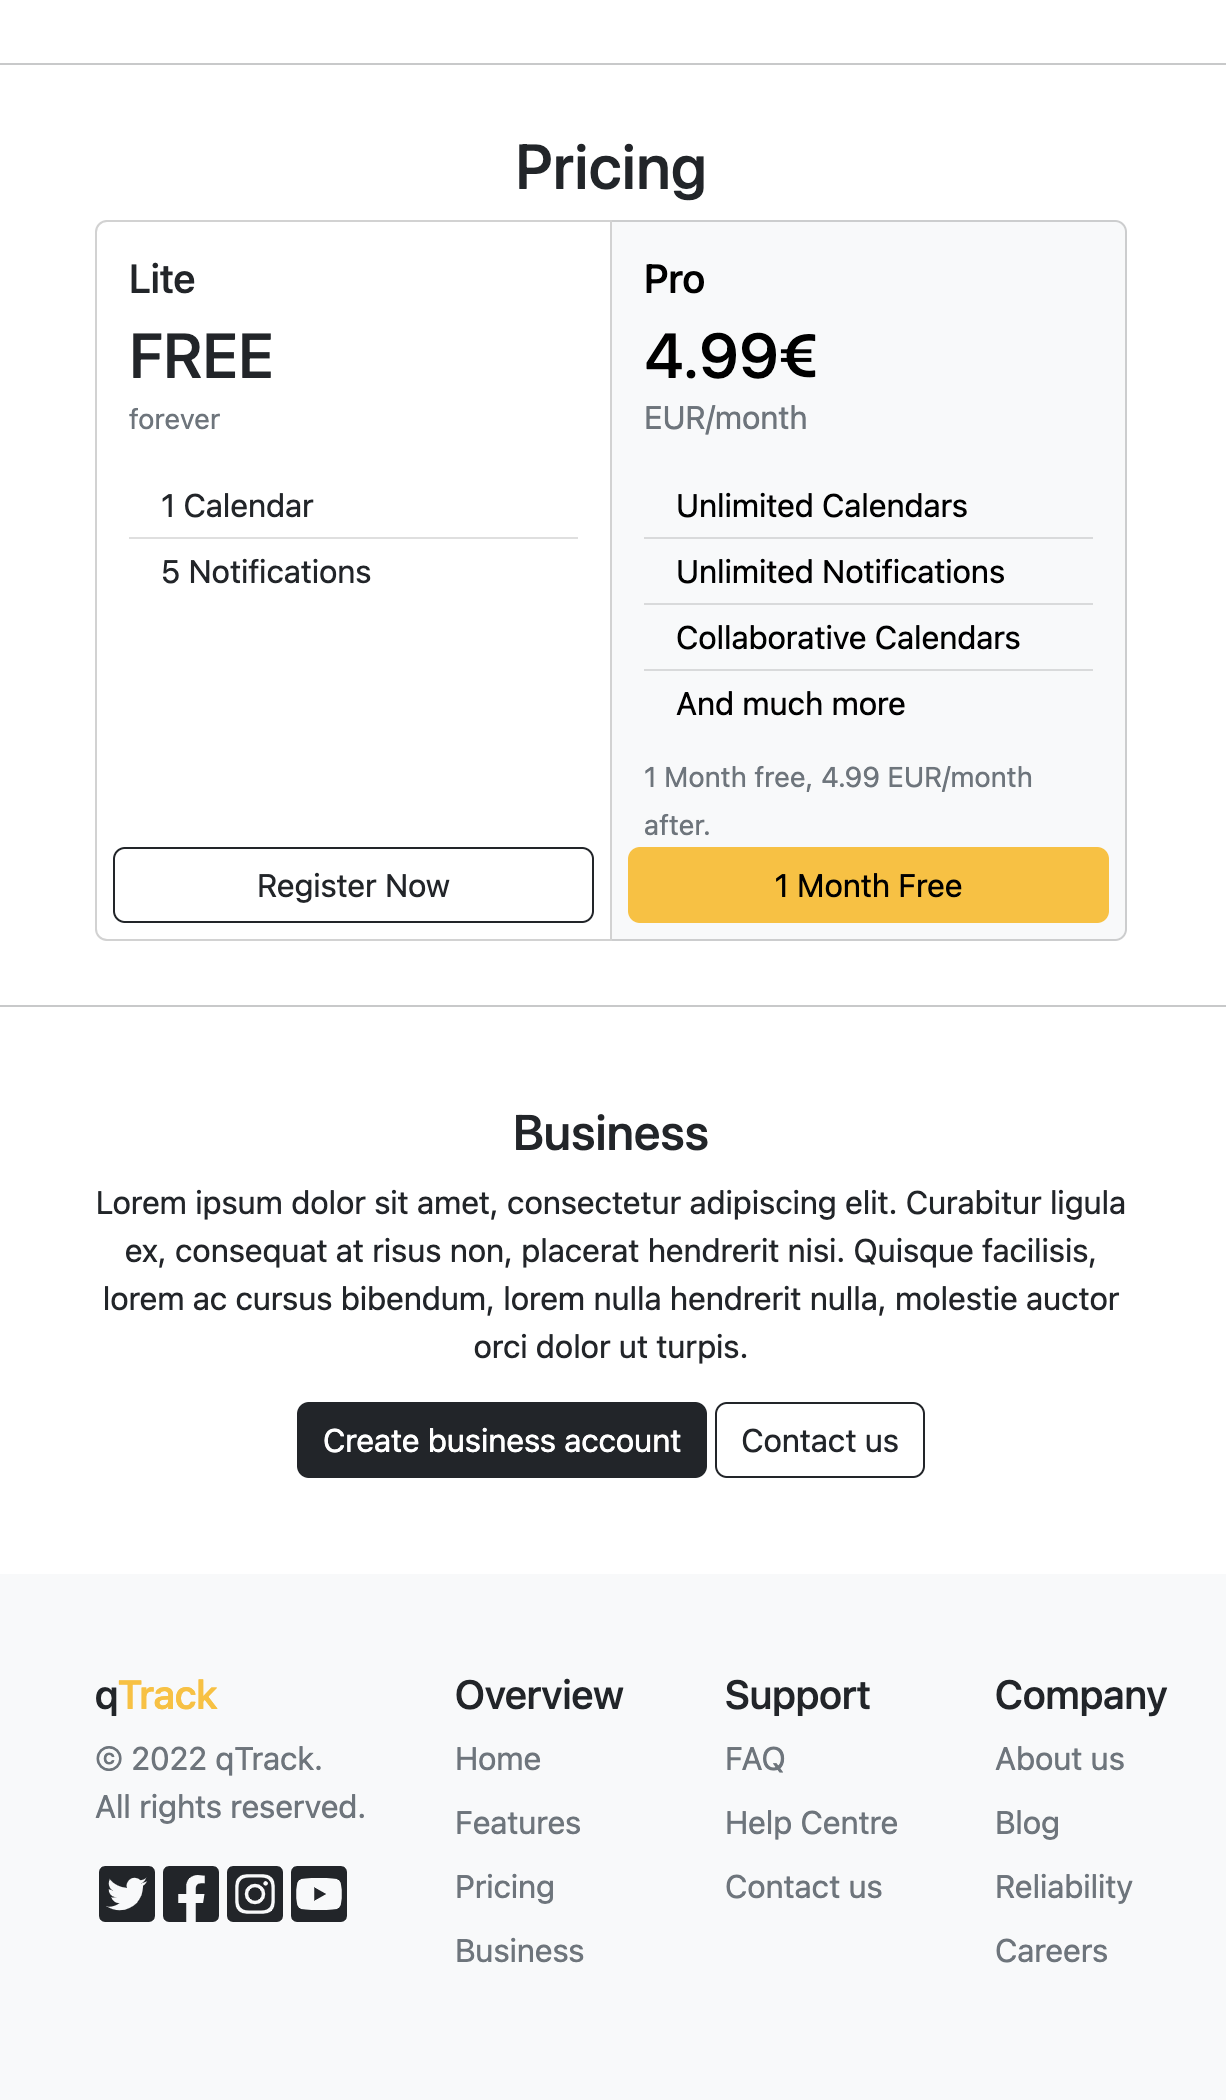
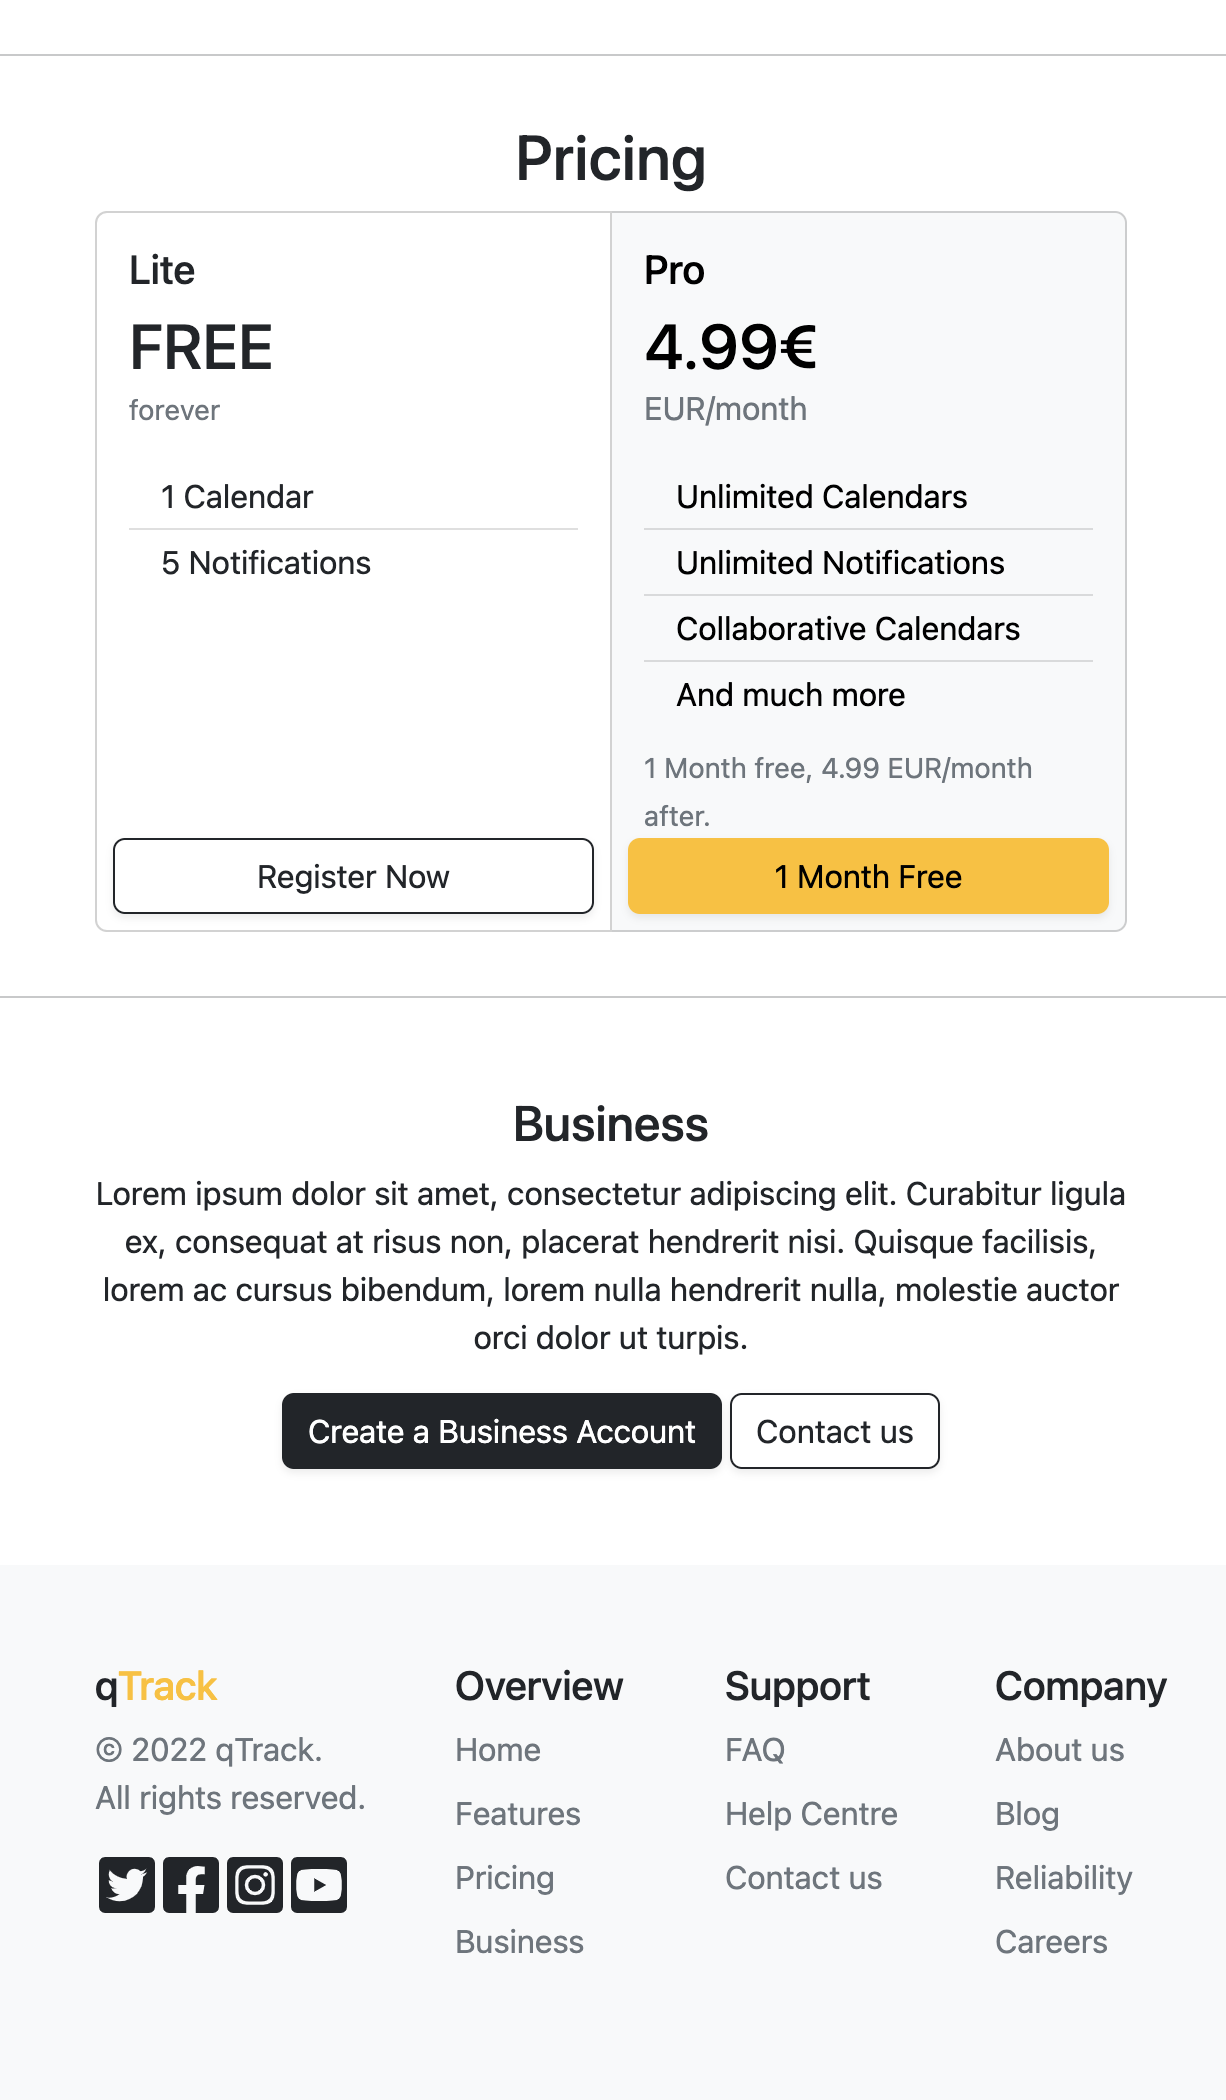
Visual improvements - shadows added.

diff --git a/frontend/src/pages/Index.tsx b/frontend/src/pages/Index.tsx
@@ -19,7 +19,7 @@ export const Index = () => {
                         <Stack gap={3} className="text-center">
                             <h1>qTrack is a time-tracking & calendar application</h1>
                             Create a qTrack account to get lorem ipsum dolor sit amet!
-                            <Link to="" className="btn btn-warning btn-lg w-50 m-auto">
+                            <Link to="" className="btn btn-warning btn-lg w-50 m-auto shadow-sm">
                                 Create a Free Account
                             </Link>
                         </Stack>
@@ -28,7 +28,7 @@ export const Index = () => {
             </Container>
 
             <hr className="mb-0"/>
-            <div className="py-3 text-bg-light">
+            <div className="py-3 text-bg-light shadow-sm">
                 <Container className="py-3">
                     <Row>
                         <Col>
@@ -40,7 +40,7 @@ export const Index = () => {
                                 pulvinar
                                 maximus tincidunt.
                             </p>
-                            <Link to="" className="btn btn-outline-dark btn-sm">Read more</Link>
+                            <Link to="" className="btn btn-outline-dark btn-sm shadow-sm">Read more</Link>
                         </Col>
                         <Col sm={3} className="align-self-center">
                             <FaCalendarAlt size={100}/>
@@ -104,7 +104,7 @@ export const Index = () => {
                                     <li className="list-group-item py-1">5 Notifications</li>
                                 </ul>
                             </Card.Body>
-                            <Link to="" className="btn btn-outline-dark mx-2 mb-2">Register Now</Link>
+                            <Link to="" className="btn btn-outline-dark mx-2 mb-2 shadow-sm">Register Now</Link>
                         </Card>
 
                         <Card className="text-bg-light">
@@ -124,7 +124,7 @@ export const Index = () => {
                                     <small>1 Month free, 4.99 EUR/month after.</small>
                                 </span>
                             </Card.Body>
-                            <Link to="" className="btn btn-warning mx-2 mb-2">1 Month Free</Link>
+                            <Link to="" className="btn btn-warning mx-2 mb-2 shadow-sm">1 Month Free</Link>
                         </Card>
                     </CardGroup>
                 </Row>
@@ -140,8 +140,8 @@ export const Index = () => {
                             non, placerat hendrerit nisi. Quisque facilisis, lorem ac cursus bibendum, lorem nulla
                             hendrerit
                             nulla, molestie auctor orci dolor ut turpis.</p>
-                        <Link to="" className="btn btn-dark me-1">Create business account</Link>
-                        <Link to="" className="btn btn-outline-dark">Contact us</Link>
+                        <Link to="" className="btn btn-dark me-1 shadow-sm">Create a Business Account</Link>
+                        <Link to="" className="btn btn-outline-dark shadow-sm">Contact us</Link>
                     </Col>
                 </Row>
             </Container>

diff --git a/frontend/src/pages/Home.tsx b/frontend/src/pages/Home.tsx
@@ -14,7 +14,7 @@ export const Home = (props: Props) => {
         <Container fluid className="mt-3">
             <Row>
                 <Col sm={7} className="ps-2 pt-2 pe-0">
-                    <Card border="dark">
+                    <Card border="dark shadow-sm">
                         <Card.Header>
                             <FaRegCompass className="align-middle"/>
                             <span className="align-middle"> Overview</span>
@@ -24,7 +24,7 @@ export const Home = (props: Props) => {
                             Next event: <b>09:00</b> (in 1h 37min).
                         </Card.Body>
                     </Card>
-                    <Card className="mt-2">
+                    <Card className="mt-2 shadow-sm">
                         <Card.Header>
                             <FaRegPlusSquare className="align-middle"/>
                             <span className="align-middle"> Add new event</span>
@@ -36,7 +36,7 @@ export const Home = (props: Props) => {
                 </Col>
 
                 <Col sm={5} className="p-2">
-                    <Card>
+                    <Card className="shadow-sm">
                         <Card.Header>
                             <FaRegBell className="align-middle"/>
                             <span className="align-middle"> Notifications</span>

diff --git a/frontend/src/components/NavBarAuth.tsx b/frontend/src/components/NavBarAuth.tsx
@@ -9,18 +9,18 @@ type Props = {};
 export const NavBarAuth = (props: Props) => {
     return (
         <>
-            <ButtonGroup aria-label="Time picker">
+            <ButtonGroup aria-label="Time picker" className="shadow-sm">
                 <Link to="/d" className="btn btn-outline-dark">Day</Link>
                 <Link to="/w" className="btn btn-dark">Week</Link>
                 <Link to="/m" className="btn btn-outline-dark">Month</Link>
             </ButtonGroup>
 
             <Dropdown align={"end"}>
-                <Dropdown.Toggle variant="outline-dark" id="menu-dropdown">
+                <Dropdown.Toggle variant="outline-dark" id="menu-dropdown" className="shadow-sm">
                     <FaUser size={24}/>
                 </Dropdown.Toggle>
 
-                <Dropdown.Menu>
+                <Dropdown.Menu className="shadow-sm">
                     <Link to="/home" className="dropdown-item">
                         <FaHome className="align-middle"/>
                         <span className="align-middle"> Home</span>

diff --git a/frontend/src/components/NavBarNoAuth.tsx b/frontend/src/components/NavBarNoAuth.tsx
@@ -30,8 +30,8 @@ export const NavBarNoAuth = (props: Props) => {
                 </Dropdown.Menu>
             </Dropdown>
 
-            <Link to="" className="btn btn-warning">Create Account</Link>
-            <Link to="" className="btn btn-outline-dark">Log in</Link>
+            <Link to="" className="btn btn-warning shadow-sm">Create Account</Link>
+            <Link to="" className="btn btn-outline-dark shadow-sm">Log in</Link>
         </Stack>
     );
 };
